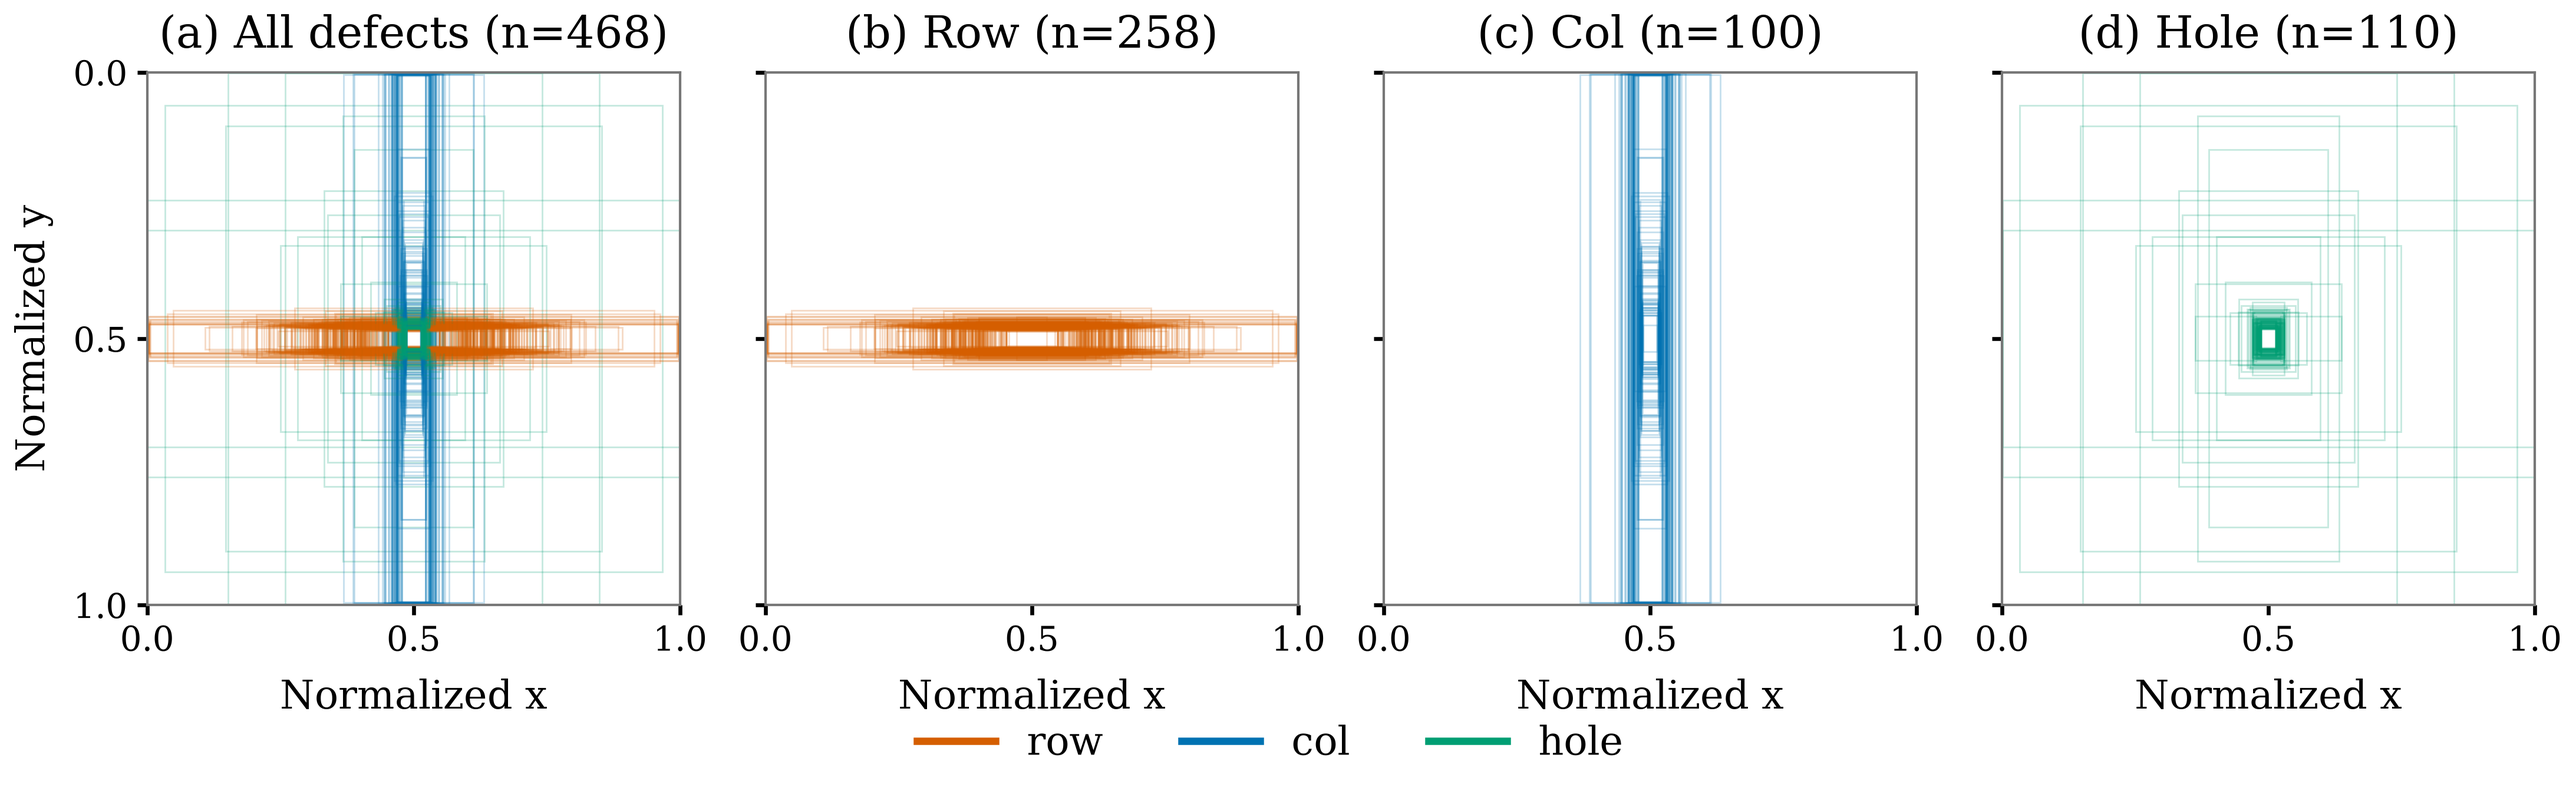
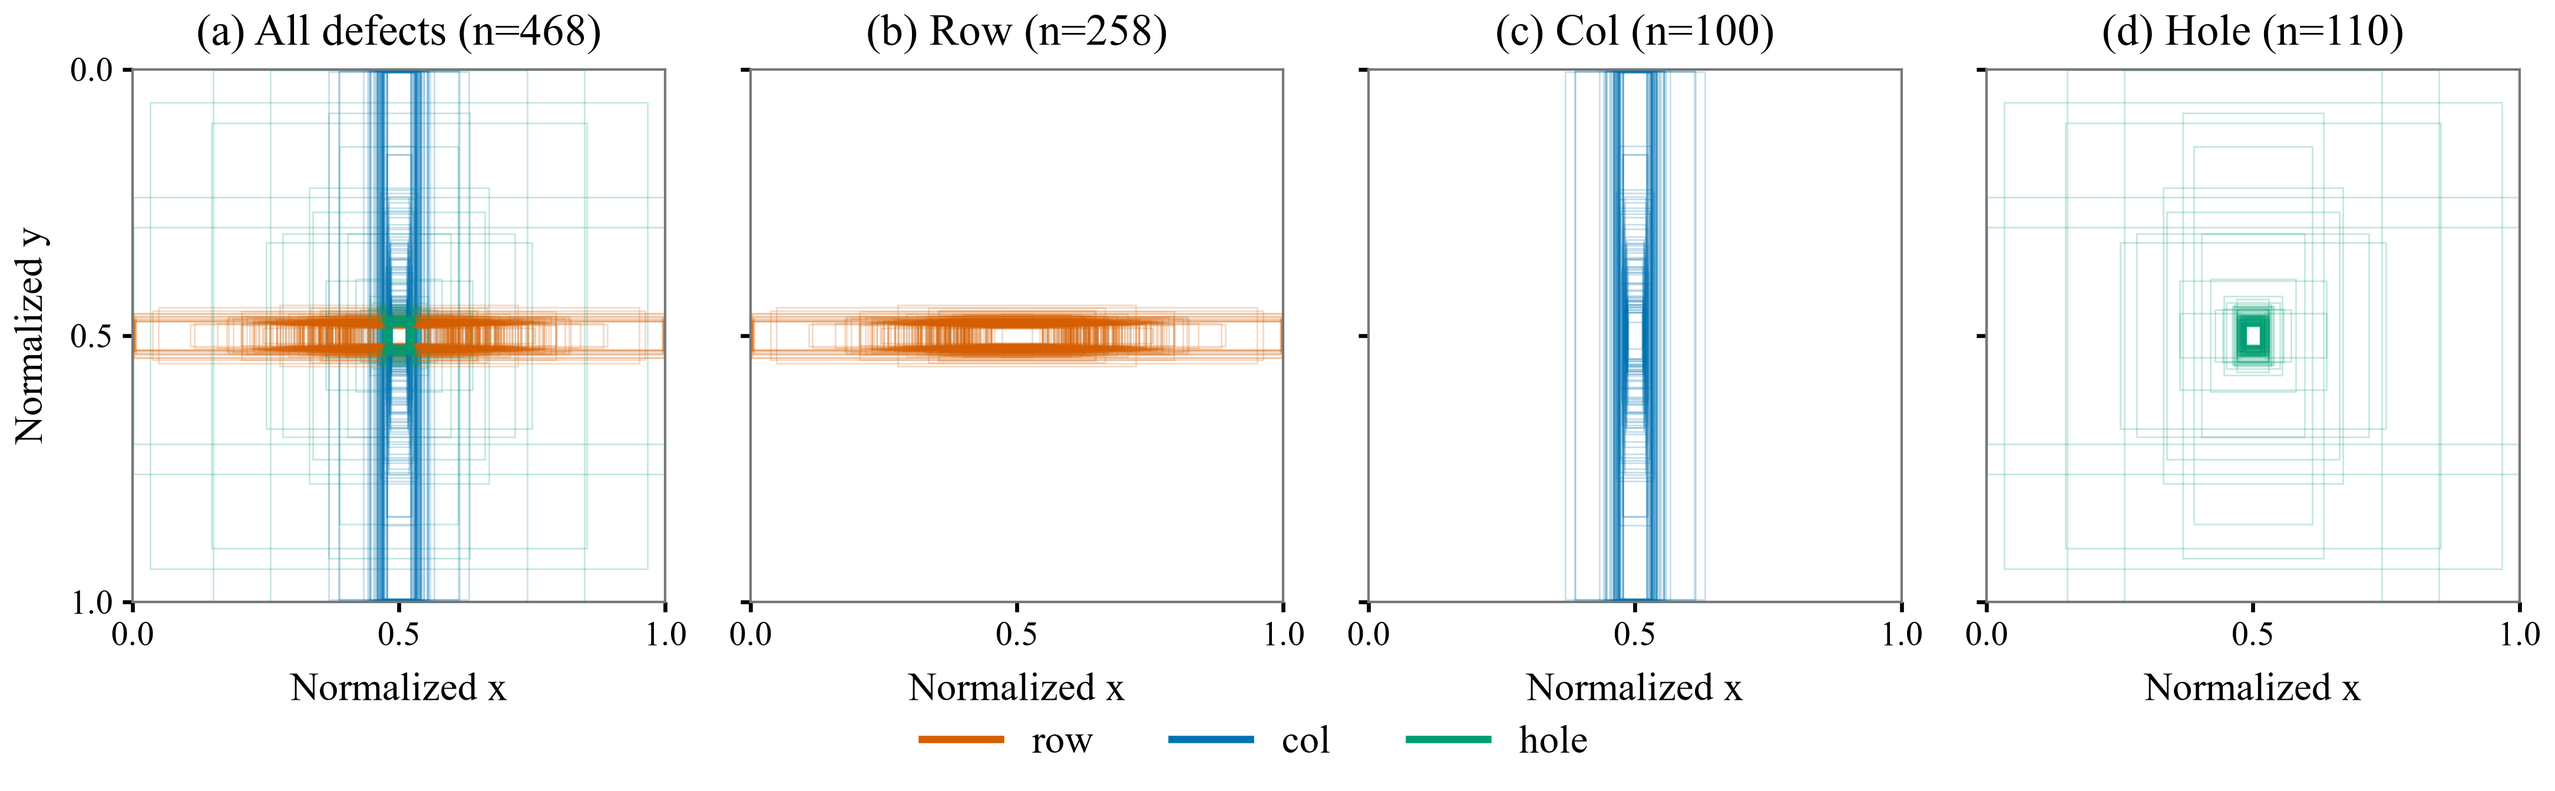
docs(paper): set Elsevier Fig. 7 in Times New Roman

diff --git a/paper/plot_annotation_shapes.py b/paper/plot_annotation_shapes.py
@@ -13,6 +13,7 @@ import matplotlib
 matplotlib.use("Agg")
 import matplotlib.pyplot as plt
 import numpy as np
+from matplotlib import font_manager
 from matplotlib.lines import Line2D
 from matplotlib.patches import Rectangle
 
@@ -50,9 +51,14 @@ def main():
     parser = argparse.ArgumentParser(description=__doc__)
     parser.add_argument("--labels", required=True, type=Path, help="Label root, e.g. labels containing train/val/test")
     parser.add_argument("--output", required=True, type=Path)
+    parser.add_argument("--font", type=Path, help="Font file to use for all plot text")
     args = parser.parse_args()
     boxes, image_count, splits, digest = read_annotations(args.labels)
-    plt.rcParams.update({"font.family": "serif", "font.size": 8, "axes.titlesize": 9, "axes.labelsize": 8})
+    font_family = "serif"
+    if args.font:
+        font_manager.fontManager.addfont(args.font)
+        font_family = font_manager.FontProperties(fname=args.font).get_name()
+    plt.rcParams.update({"font.family": font_family, "font.size": 8, "axes.titlesize": 9, "axes.labelsize": 8})
     fig, axes = plt.subplots(1, 4, figsize=(7.3, 2.35), sharex=True, sharey=True)
     for panel, ax in enumerate(axes):
         selected = boxes if panel == 0 else boxes[boxes[:, 0] == panel - 1]

diff --git a/paper/Elsevier_submission/AGENTS.md b/paper/Elsevier_submission/AGENTS.md
@@ -32,3 +32,4 @@
 - 实验结果表统一表头与显示精度：单位仅在Evaluation Metrics正文统一说明，P、R、AP、mAP以百分数表示，Params以millions (M)表示，FLOPs以billions (G)表示；各结果表不再重复添加单位Note。表头不写(%)、(M)、(G)，Params和FLOPs保持单行；消融表保留Overall/Row/Col/Hole分组的两行表头。P、R、AP、mAP保留1位小数，Params保留2位小数，FLOPs保留1位小数，FPS显示整数。部署正文用同样的准确率精度；原始日志与JSON不按显示精度覆盖。数据集计数和像素阈值保留整数，置信度预设保留原值。
 - 检测对比图Fig. 10（fig:qualitative，figures/fig6.png）保持双栏，当前以0.9\textwidth、pos=!t排版，与相关表格和正文共同排版；避免允许p浮动后单独占据图片页。修改后必须编译验证，保留全部五行样例、原图标注及图注。
 - 硬件图fig2.png、安装图fig3.png与形态分布图annotation_shapes.png当前使用0.98\textwidth，样本图defect.png使用0.97\textwidth，为后续小节开头和成组公式保留连续栏高，避免第5页左栏、第6页右栏提前换栏留下大块空白；不以缩小正文字号、拆开池化公式或改图内容来填空。
+- Fig. 7（`figures/annotation_shapes.png`）的子图标题、坐标轴、刻度和图例统一使用 Times New Roman。重绘时向 `paper/plot_annotation_shapes.py` 传入 `--font C:/Windows/Fonts/times.ttf`，使用同目录 `.stats.json` 所记录的标注源，核对标注哈希和样本计数不变。
